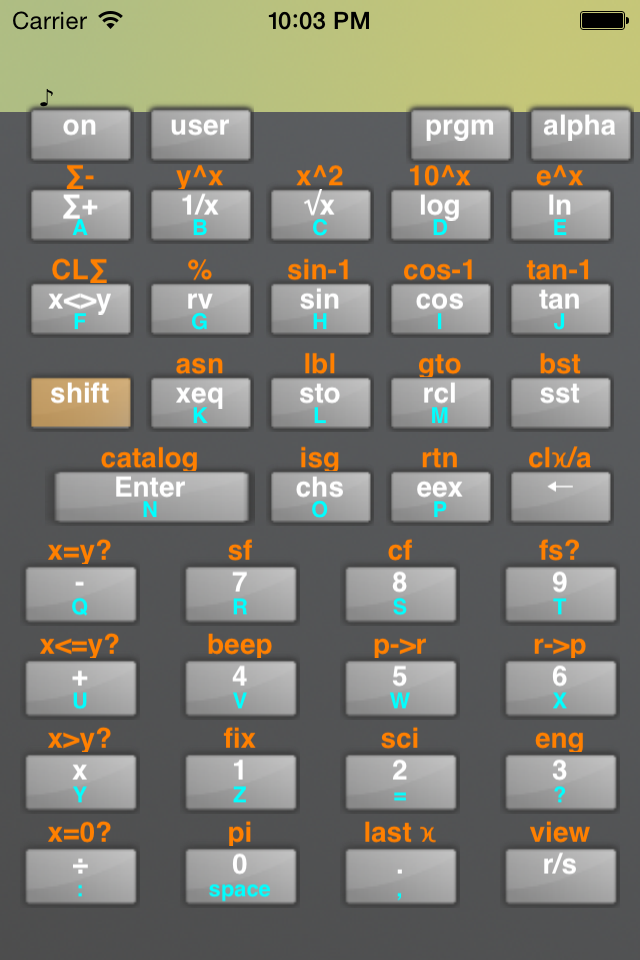
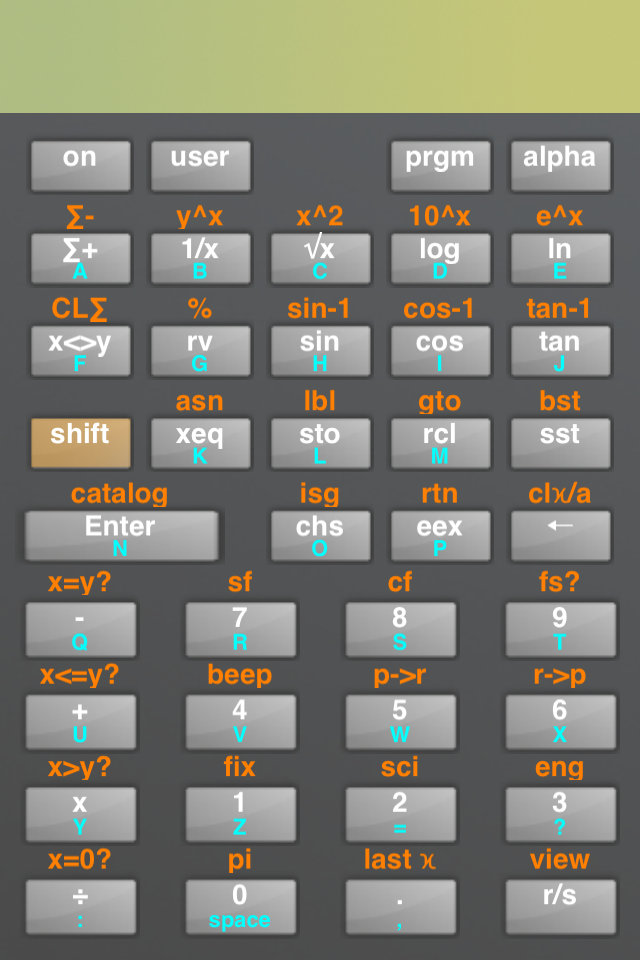
Fixes to handle being suspended.

diff --git a/Classes/Calc41CViewController.m b/Classes/Calc41CViewController.m
@@ -491,7 +491,7 @@ pid_t			thread;
 	// bang the nsim thread just in case...
 	// since it seems to lose SIGALRM events. I should really be tracking a counter or
 	// something instead of this.
-	kill(thread, SIGALRM);
+//	kill(thread, SIGALRM);
 }
 
 char * ram_file_name = 0;
@@ -548,59 +548,32 @@ void LaunchThread()
 }
 */
 
-//--------------------------------------------------------------------------------
-// viewDidLoad
-//--------------------------------------------------------------------------------
-- (void)viewDidLoad
+
+- (void)applicationDidBecomeActive:(id)obj
 {
-/*  if ([self respondsToSelector:@selector(setNeedsStatusBarAppearanceUpdate)]) {
-        // iOS 7
-        [self prefersStatusBarHidden];
-        [self performSelector:@selector(setNeedsStatusBarAppearanceUpdate)];
+    NSLog(@"UIViewController: application did become active\n");
+    
+    // init access to mutex used for display data
+    pthread_mutex_init(&mutex, NULL);
+    
+    // get key click from prefs
+    key_click = [[NSUserDefaults standardUserDefaults] boolForKey:@"KeyClick"];
+    
+    // Init display buffers
+    disp_buf1 [0] ='\0';
+    disp_buf2 [0] ='\0';
+    
+    // get bundle / rom
+    NSString *romPath;
+    NSBundle *thisBundle = [NSBundle bundleForClass:[self class]];
+    if (!(romPath = [thisBundle pathForResource:@"nsim" ofType:@"rom"]))  {
+        NSLog(@"Calc41C: unable to find rom");
     }
-*/    
-	// init access to mutex used for display data
-	pthread_mutex_init(&mutex, NULL);
-	
-	[super viewDidLoad];
-	
-	// get key click from prefs
-	key_click = [[NSUserDefaults standardUserDefaults] boolForKey:@"KeyClick"];
-	
-	// Init display buffers
-	disp_buf1 [0] ='\0';
-	disp_buf2 [0] ='\0';
-
-	// load rom
-	NSString *romPath;
-	NSBundle *thisBundle = [NSBundle bundleForClass:[self class]];
-	if (!(romPath = [thisBundle pathForResource:@"nsim" ofType:@"rom"]))  {
-		NSLog(@"Calc41C: unable to find rom");
-	}
-
-	// Get URL to the clicks
-	CFURLRef urlRefCli = CFURLCreateWithFileSystemPath (
-						 kCFAllocatorDefault,
-						 (CFStringRef)[thisBundle pathForResource:@"hp65_4_1" ofType:@"aiff"],
-						 kCFURLPOSIXPathStyle,
-						 FALSE);
-	CFURLRef urlRefIck = CFURLCreateWithFileSystemPath (
-						 kCFAllocatorDefault,
-						 (CFStringRef)[thisBundle pathForResource:@"hp65_4_2" ofType:@"aiff"],
-						 kCFURLPOSIXPathStyle,
-						 FALSE);
-	
-	// create a system sound ID to represent the sound file
-	AudioServicesCreateSystemSoundID (urlRefCli, &ssidCli);
-	AudioServicesCreateSystemSoundID (urlRefIck, &ssidIck);
-	
-	CFRelease(urlRefCli);
-	CFRelease(urlRefIck);
-
-	// Initialize nsim
-	int ram_size = 320;
-	init_nsim(ram_size, [romPath cStringUsingEncoding:NSASCIIStringEncoding] , 0/*trace*/);
-
+    
+    // Initialize nsim
+    int ram_size = 320;
+    init_nsim(ram_size, [romPath cStringUsingEncoding:NSASCIIStringEncoding] , 0/*trace*/);
+    
     // get path to saved ram file
     NSArray *paths = NSSearchPathForDirectoriesInDomains(NSDocumentDirectory, NSUserDomainMask, YES);
     NSString *documentsDirectory = [paths objectAtIndex:0];
@@ -612,12 +585,63 @@ void LaunchThread()
     // start up nsim thread
     LaunchThread();
     
+    key_pressed = KC_NONE;
+}
+
+//--------------------------------------------------------------------------------
+// viewDidLoad
+//--------------------------------------------------------------------------------
+- (void)viewDidLoad
+{
+/*  if ([self respondsToSelector:@selector(setNeedsStatusBarAppearanceUpdate)]) {
+        // iOS 7
+        [self prefersStatusBarHidden];
+        [self performSelector:@selector(setNeedsStatusBarAppearanceUpdate)];
+    }
+*/    
+    [[NSNotificationCenter defaultCenter] addObserver:self
+                                             selector:@selector(applicationDidBecomeActive:)
+                                                 name:UIApplicationDidBecomeActiveNotification object:nil];
+    
+	[super viewDidLoad];
+
+    // load bundle
+    NSBundle *thisBundle = [NSBundle bundleForClass:[self class]];
+    
+    // Get URL to the clicks
+    CFURLRef urlRefCli = CFURLCreateWithFileSystemPath (
+                                                        kCFAllocatorDefault,
+                                                        (CFStringRef)[thisBundle pathForResource:@"hp65_4_1" ofType:@"aiff"],
+                                                        kCFURLPOSIXPathStyle,
+                                                        FALSE);
+    CFURLRef urlRefIck = CFURLCreateWithFileSystemPath (
+                                                        kCFAllocatorDefault,
+                                                        (CFStringRef)[thisBundle pathForResource:@"hp65_4_2" ofType:@"aiff"],
+                                                        kCFURLPOSIXPathStyle,
+                                                        FALSE);
+    
+    // create a system sound ID to represent the sound file
+    AudioServicesCreateSystemSoundID (urlRefCli, &ssidCli);
+    AudioServicesCreateSystemSoundID (urlRefIck, &ssidIck);
+    CFRelease(urlRefCli);
+    CFRelease(urlRefIck);
+    
     // resize view to screen size
     self.view.frame = CGRectMake(0, 0, [[UIScreen mainScreen] bounds].size.width, [[UIScreen mainScreen] bounds].size.height);
     
     // get bounds
     CGRect b = self.view.bounds;
     NSLog(@"Bounds: xy %f %f  wh %f %f\n",b.origin.x,b.origin.y,b.size.width,b.size.height);
+
+    if (b.size.height==480) {
+        UIImageView *uv = self.view;
+        [uv setImage:[UIImage imageNamed:@"gradient.png"]];
+    }
+    
+    if (b.size.height==568) {
+        UIImageView *uv = self.view;
+        [uv setImage:[UIImage imageNamed:@"gradient-1136.png"]];
+    }
     
     // calculate start and height of button rows
     float sy = 64;
@@ -665,7 +689,7 @@ void LaunchThread()
             if( row==0 && col<2 )
                 button.center = CGPointMake(40+col*60, sy+hy/4);
             else if( row==0 )
-                button.center = CGPointMake(110+col*60, sy+hy/4);
+                button.center = CGPointMake(40+(col+1)*60, sy+hy/4);
             else if( row<5 )
                 button.center = CGPointMake(40+col*60, sy+row*hy+hy/4);
             else
@@ -696,8 +720,6 @@ void LaunchThread()
 
     [[self view] addSubview:mainDisplay];
 	[[self view] setNeedsDisplay];
-    
-    key_pressed = KC_NONE;
 }
 
 //--------------------------------------------------------------------------------

diff --git a/Classes/Calc41CAppDelegate.m b/Classes/Calc41CAppDelegate.m
@@ -22,8 +22,8 @@
 #import "Calc41CAppDelegate.h"
 #import "Calc41CViewController.h"
 
-extern char * ram_file_name;
-extern int write_ram_file (char *ramfn);
+//extern char * ram_file_name;
+//extern int write_ram_file (char *ramfn);
 
 #pragma mark -
 #pragma mark Calc41CAppDelegate Implementation 
@@ -43,13 +43,20 @@ extern int write_ram_file (char *ramfn);
     [window makeKeyAndVisible];
 }
 
+- (void)applicationDidBecomeActive:(UIApplication *)application
+{
+    NSLog(@"Application did become active ...\n");
+}
+
 //--------------------------------------------------------------------------------
 // applicationWillResignActive:
 //--------------------------------------------------------------------------------
 - (void)applicationWillResignActive:(UIApplication *)application
 {
-    
+    NSLog(@"Application will resign active ... saving state\n");
     key_pressed = -2;
+    
+    
 	// save memory
 //	if( ram_file_name) {
 //		if (! write_ram_file (ram_file_name))
@@ -82,8 +89,6 @@ extern char display_enable;
 //			fprintf (stderr, "Error writing RAM file '%s'\n", ram_file_name);
 //		}
 //	}
-    
-    key_pressed = -2; /*KC_EXIT;*/
 }
 
 //--------------------------------------------------------------------------------

diff --git a/Classes/nsim.c b/Classes/nsim.c
@@ -1593,7 +1593,7 @@ int isleep(u_time_t time, int return_on_any_signal) {
 } 
 
 int run_nsim(char *ram_f) {
-	io_count = 10000;
+    io_count = 0;//10000;
 	key_flag = 0;
 	
 	if (! read_ram_file (ram_f))
@@ -1629,7 +1629,7 @@ int run_nsim(char *ram_f) {
 		if (io_count <= 0) 
 		{
 			handle_display ();
-			if (handle_keyboard() == KC_EXIT) 
+			if (handle_keyboard() == KC_EXIT && pc!=0x27f8)     // ??? This pc doesn't recover/restart
 			{
 				if (ram_f) 
 					if (! write_ram_file (ram_f))
@@ -1637,7 +1637,7 @@ int run_nsim(char *ram_f) {
 				return 0;
 			}
 			
-			io_count = 67;  /* nominal 380 KHz oscillator */
+            io_count = 67;      //67;  /* nominal 380 KHz oscillator */
 //			printf("pc: %x\n",pc);
 #ifdef USE_TIMER
 //			pause ();
